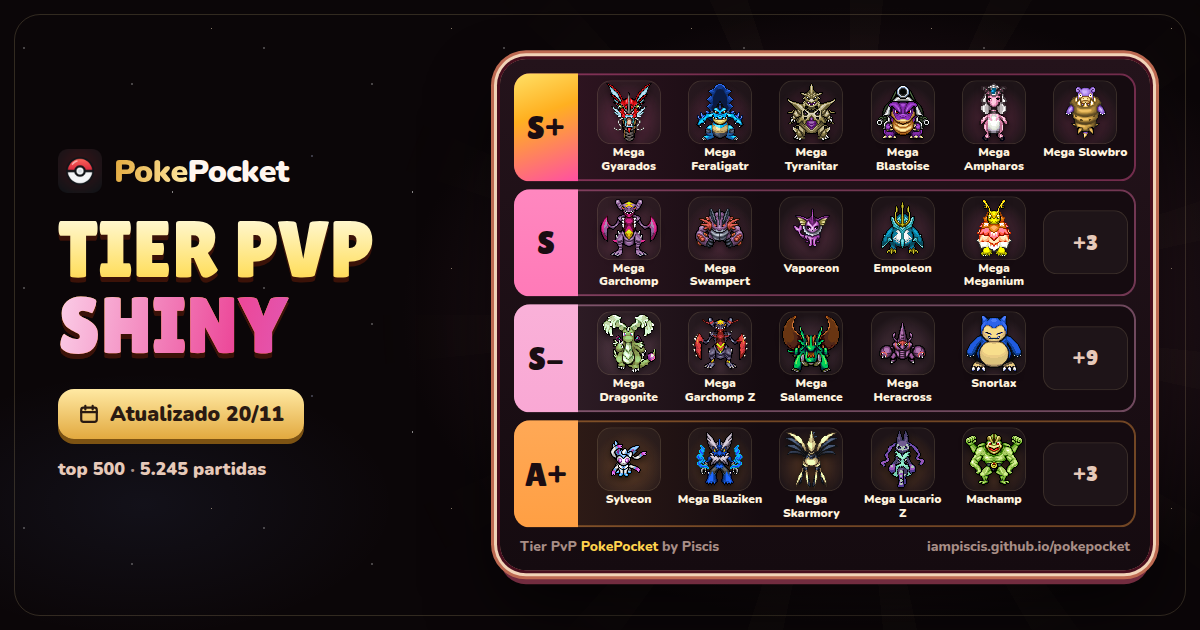
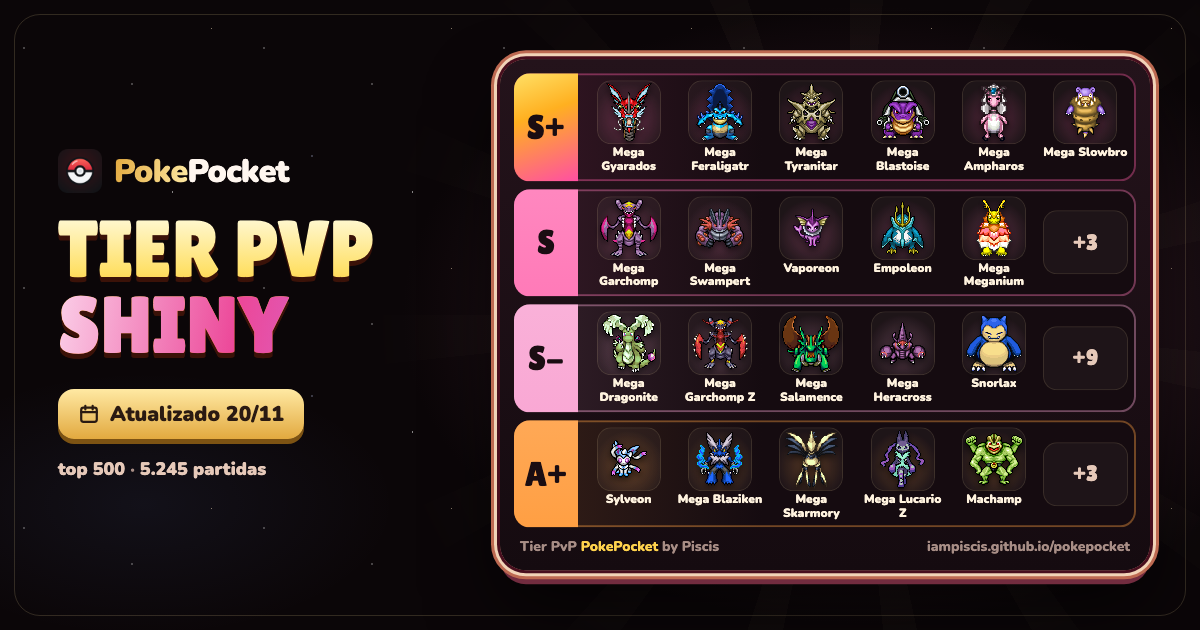
chore: prévia do tier regerada com o endereço novo

diff --git a/tier/index.html b/tier/index.html
@@ -12,12 +12,12 @@
   <meta property="og:title" content="Tier PvP shiny · PokePocket" />
   <meta property="og:description" content="S+ hoje: Mega Gyarados, Mega Feraligatr, Mega Tyranitar… · atualizado todo dia ao meio-dia" />
   <meta property="og:url" content="https://iampiscis.github.io/pokepocket/tier/" />
-  <meta property="og:image" content="https://iampiscis.github.io/pokepocket/assets/previa-tier.png?d=20261120" />
+  <meta property="og:image" content="https://iampiscis.github.io/pokepocket/assets/previa-tier.png?d=202611201542" />
   <meta property="og:image:width" content="1200" />
   <meta property="og:image:height" content="630" />
   <meta property="og:image:alt" content="Tier PvP shiny do PokePocket: pokémon do ranqueado do Pokéidle em faixas de S+ a D" />
   <meta name="twitter:card" content="summary_large_image" />
-  <meta name="twitter:image" content="https://iampiscis.github.io/pokepocket/assets/previa-tier.png?d=20261120" />
+  <meta name="twitter:image" content="https://iampiscis.github.io/pokepocket/assets/previa-tier.png?d=202611201542" />
   <link rel="icon" href="../assets/icone.png" />
   <script>document.documentElement.classList.add('sem-vt')</script>
   <link rel="stylesheet" href="../calculadora/calc.css" />
